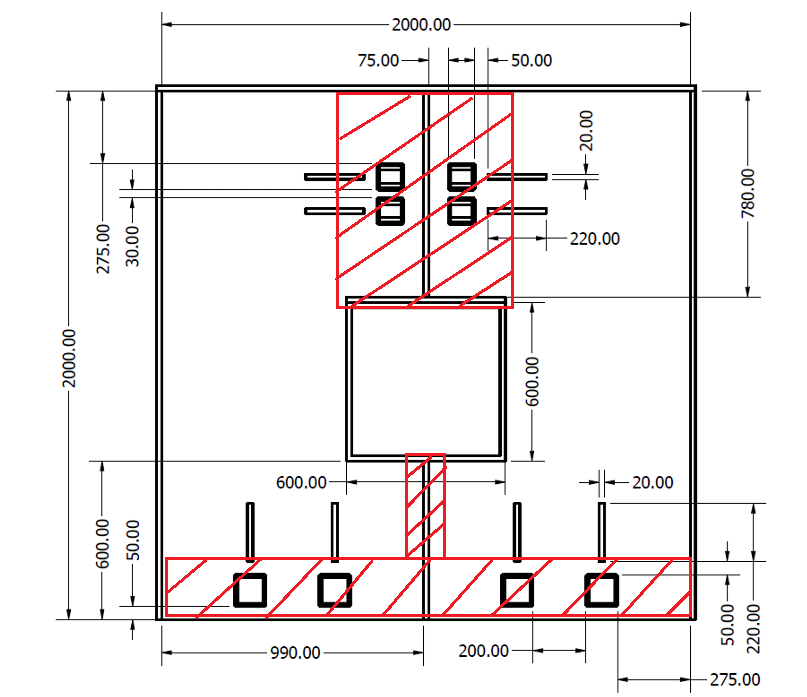
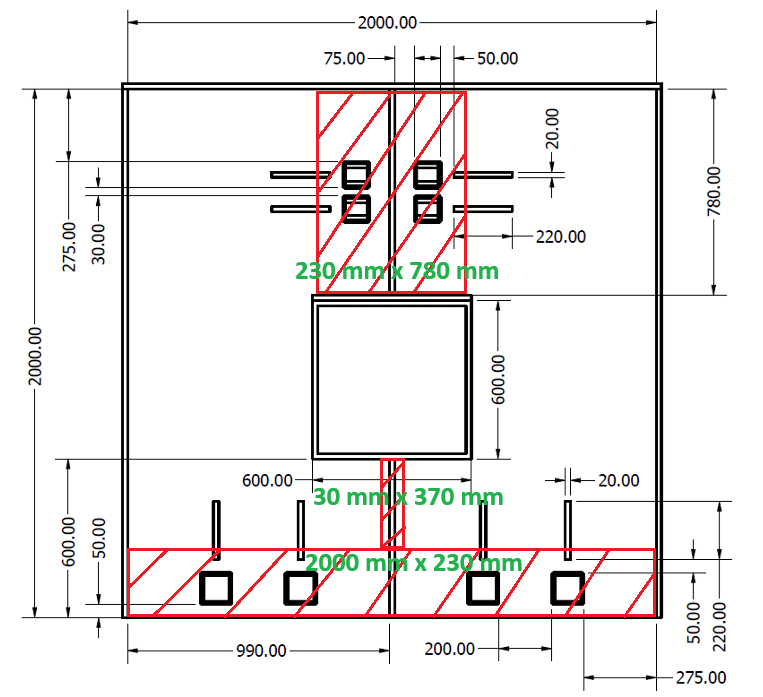
Add named arena poses and transfer routes

diff --git a/8 - 3-wheeled omni/src/main/cpp/RobotSubsystem.cpp b/8 - 3-wheeled omni/src/main/cpp/RobotSubsystem.cpp
@@ -248,7 +248,7 @@ void RobotSubsystem::InitializeMotionDashboard() {
   auto& tab=frc::Shuffleboard::GetTab("Motion");
   tab.AddString("Motion status",[this] {
     // Visible revision distinguishes this executable from stale robot/UI data.
-    const std::string revision="P8-r28 MVP | ";
+    const std::string revision="P8-r31 MVP | ";
     if (!routineNotice_.empty()) return revision+routineNotice_;
     if (frc::RobotState::IsAutonomous()) return revision+(navigationSelected_?navigation_.Status():tapeRoutine_.GetStatus());
     return revision+(hardware_.HasDriveFault()?
@@ -336,11 +336,11 @@ void RobotSubsystem::InitializePoseDashboard() {
   tab.AddString("Initialization status",[this] {
     return routineNotice_.empty()?navigation_.InitializationStatus():routineNotice_;
   }).WithPosition(0,0).WithSize(8,1);
-  initialX_=tab.Add("Start X mm or -",wpi::Twine("-"))
+  initialX_=tab.Add("Start X mm or -",wpi::Twine(std::to_string(localization_config::START_X_MM)))
       .WithWidget(frc::BuiltInWidgets::kTextView).WithPosition(0,1).WithSize(2,1).GetEntry();
-  initialY_=tab.Add("Start Y mm or -",wpi::Twine("-"))
+  initialY_=tab.Add("Start Y mm or -",wpi::Twine(std::to_string(localization_config::START_Y_MM)))
       .WithWidget(frc::BuiltInWidgets::kTextView).WithPosition(2,1).WithSize(2,1).GetEntry();
-  initialHeading_=tab.Add("Start heading deg",0.0).WithPosition(4,1).WithSize(2,1).GetEntry();
+  initialHeading_=tab.Add("Start heading deg",localization_config::START_HEADING_DEG).WithPosition(4,1).WithSize(2,1).GetEntry();
   initializeFromTab_=tab.Add("Initialize pose",false).WithWidget(frc::BuiltInWidgets::kToggleButton)
       .WithPosition(6,1).WithSize(2,1).GetEntry();
   const PoseInitialization defaults;
@@ -364,7 +364,12 @@ void RobotSubsystem::InitializePoseDashboard() {
 void RobotSubsystem::InitializeNavigationDashboard() {
   auto& tab=frc::Shuffleboard::GetTab("Navigation");
   tab.AddString("Navigation status",[this] {
-    return std::string("P8-r28 MVP | ")+(routineNotice_.empty()?navigation_.Status():routineNotice_);
+    std::string status=std::string("P8-r31 MVP | ")+(routineNotice_.empty()?navigation_.Status():routineNotice_);
+    if (navigation_.HasReference()) {
+      status+=" | from ";
+      status+=selectedSource_<navigation_config::GOAL_COUNT?navigation_config::GOALS[selectedSource_].name:"Current pose";
+    }
+    return status;
   }).WithPosition(0,0).WithSize(6,1);
   stopNavigation_=tab.Add("Stop",false).WithWidget(frc::BuiltInWidgets::kToggleButton)
       .WithPosition(6,0).WithSize(2,1).GetEntry();
@@ -389,12 +394,17 @@ void RobotSubsystem::InitializeNavigationDashboard() {
       .WithPosition(6,3).WithSize(2,1);
   for (const auto& preset:navigation_config::GOALS) {
     const int index=static_cast<int>(goalSettings_.size());
-    goalSettings_.push_back({preset.xMM,preset.yMM,preset.headingDeg,preset.intermediatePoses});
+    goalSettings_.push_back({preset.xMM,preset.yMM,preset.headingDeg});
     if (index==0) goalChooser_.SetDefaultOption(preset.name,index);
     else goalChooser_.AddOption(preset.name,index);
   }
   goalChooser_.AddOption("Custom",static_cast<int>(goalSettings_.size()));
-  goalSettings_.push_back({navigation_config::DEFAULT_GOAL_X_MM,navigation_config::DEFAULT_GOAL_Y_MM,0,""});
+  goalSettings_.push_back({navigation_config::DEFAULT_GOAL_X_MM,navigation_config::DEFAULT_GOAL_Y_MM,navigation_config::DEFAULT_GOAL_HEADING_DEG});
+  const int count=static_cast<int>(goalSettings_.size());
+  routeSettings_.assign(count*count,""); // extra row/column: Current pose / Custom
+  for (int source=0;source<navigation_config::GOAL_COUNT;++source)
+    for (int goal=0;goal<navigation_config::GOAL_COUNT;++goal)
+      routeSettings_[source*count+goal]=GoalNavigationRoutine::DefaultIntermediates(source,goal);
   tab.Add("Saved goal",goalChooser_).WithWidget(frc::BuiltInWidgets::kComboBoxChooser)
       .WithPosition(0,4).WithSize(2,1);
   intermediatePoses_=tab.Add("Intermediate poses (x,y,deg; ...)",wpi::Twine(""))
@@ -405,14 +415,35 @@ void RobotSubsystem::InitializeNavigationDashboard() {
 
 void RobotSubsystem::UpdateGoalSelection() {
   if (goalSettings_.empty()) return;
-  const int selected=goalChooser_.GetSelected();
-  if (selected<0 || selected>=static_cast<int>(goalSettings_.size()) || selected==selectedGoal_) return;
+  const int count=static_cast<int>(goalSettings_.size());
+  // Save the displayed destination and source-specific guides before switching.
+  // Editing the dashboard does not modify a route already captured by StartGoal.
   if (selectedGoal_>=0) {
     auto& old=goalSettings_[selectedGoal_];
-    old={goalX_.GetDouble(old.xMM),goalY_.GetDouble(old.yMM),goalHeading_.GetDouble(old.headingDeg),
-        intermediatePoses_.GetString(old.intermediatePoses)};
+    old={goalX_.GetDouble(old.xMM),goalY_.GetDouble(old.yMM),goalHeading_.GetDouble(old.headingDeg)};
+    auto& route=routeSettings_[selectedSource_*count+selectedGoal_];
+    route=intermediatePoses_.GetString(route);
   }
+  const int selected=goalChooser_.GetSelected();
+  if (selected<0 || selected>=count) return;
+  int source=selectedSource_;
+  // Freeze the source during travel. After arrival, use the current measured
+  // pose to select the next transfer, including a return to Start.
+  if (!navigation_.IsRunning()) {
+    source=navigation_config::GOAL_COUNT;
+    if (navigation_.HasReference()) {
+      const auto pose=navigation_.GetState()==GoalNavigationRoutine::State::Complete?
+          navigation_.ControlPose():localization_.GetPose();
+      double nearest=navigation_config::SOURCE_MATCH_RADIUS_MM;
+      for (int i=0;i<navigation_config::GOAL_COUNT;++i) {
+        const double distance=std::hypot(pose.x_MM-goalSettings_[i].xMM,pose.y_MM-goalSettings_[i].yMM);
+        if (distance<=nearest) { nearest=distance; source=i; }
+      }
+    }
+  }
+  if (selected==selectedGoal_ && source==selectedSource_) return;
   const auto& next=goalSettings_[selected];
   goalX_.SetDouble(next.xMM); goalY_.SetDouble(next.yMM); goalHeading_.SetDouble(next.headingDeg);
-  intermediatePoses_.SetString(next.intermediatePoses); selectedGoal_=selected;
+  intermediatePoses_.SetString(routeSettings_[source*count+selected]);
+  selectedGoal_=selected; selectedSource_=source;
 }

diff --git a/8 - 3-wheeled omni/src/main/include/RobotConfig.h b/8 - 3-wheeled omni/src/main/include/RobotConfig.h
@@ -58,7 +58,7 @@ static constexpr double CONTROL_PERIOD_S=0.020,MAX_CONTROL_GAP_S=0.10;
 // Controller ramps use a capped step; Teleop keeps its original timing limits.
 static constexpr double AUTO_MAX_SAMPLE_GAP_S=0.50,AUTO_MAX_CONTROL_STEP_S=0.04;
 static constexpr double ARENA_WIDTH_MM=2000,ARENA_HEIGHT_MM=2000;
-static constexpr double START_X_MM=950,START_Y_MM=900,START_HEADING_DEG=0;
+static constexpr double START_X_MM=950,START_Y_MM=900,START_HEADING_DEG=-90;
 
 static constexpr double FRONT_SENSOR_OFFSET_MM=171.6,REAR_SENSOR_OFFSET_MM=173;
 static constexpr double LEFT_SENSOR_OFFSET_MM=60,RIGHT_SENSOR_OFFSET_MM=60;
@@ -130,6 +130,26 @@ static constexpr double YAW_DIRECTION_CHECK_MIN_RADPS=YAW_DIRECTION_CHECK_MIN_DP
 static constexpr double YAW_RESPONSE_SETTLE_S=0.30;
 }
 
+// Layout from docs/court_barriers.png. Written dimensions take precedence over
+// the drawing's scale. Divider centreline is X=1000, independently of Start X.
+// These describe the scene, not a route-blocking/footprint feasibility layer.
+namespace arena_config {
+static constexpr double DIVIDER_X_MM=1000;
+struct RestrictedRegion { double minX,minY,maxX,maxY; };
+static constexpr RestrictedRegion RESTRICTED_REGIONS[]={
+    {DIVIDER_X_MM-115,1220,DIVIDER_X_MM+115,2000}, // upper: 230 x 780
+    {0,0,2000,230},                            // bottom: 2000 x 230
+    {DIVIDER_X_MM-15,230,DIVIDER_X_MM+15,600}}; // lower strip: 30 x 370
+// The horizontal wooden wall is separate from the upper restricted rectangle;
+// the centre square itself is floor tape. Wall faces are inferred from the
+// 600 mm span and 780 mm north-wall offset, approximately confirmed by the user.
+// Keep the faces editable for refinement of the physical measurements.
+static constexpr bool HORIZONTAL_WALL_REFERENCE_ENABLED=true;
+static constexpr double HORIZONTAL_WALL_MIN_X_MM=DIVIDER_X_MM-300;
+static constexpr double HORIZONTAL_WALL_MAX_X_MM=DIVIDER_X_MM+300;
+static constexpr double HORIZONTAL_WALL_SOUTH_Y_MM=1200,HORIZONTAL_WALL_NORTH_Y_MM=1220;
+}
+
 // Minimum version: manually supplied intermediate poses and one final pose.
 namespace navigation_config {
 // FINAL POSE
@@ -156,14 +176,38 @@ static constexpr unsigned MAX_INTERMEDIATE_POINTS=32;
 static constexpr double WALL_MAX_INNOVATION_MM=100,WALL_BLEND=0.25,WALL_MAX_STEP_MM=5;
 static constexpr double WALL_HISTORY_S=0.5;
 static constexpr double BRAKE_PREVIEW_S=0.25;
-// Each goal owns an ordered "x,y,headingDeg; ..." list. Empty means direct travel.
-// These short north-lane examples demonstrate zero, one and multiple points.
-struct GoalPreset { const char* name; double xMM,yMM,headingDeg; const char* intermediatePoses; };
-static constexpr GoalPreset GOALS[]={
-    {"Short north",250,700,0,""},
-    {"North via 700",250,950,0,"250,700,0"},
-    {"Long north",250,1200,0,"250,700,0;250,950,0"},
-    {"Top right",1700,1700,90,"650,850,0;1500,850,90;1700,1400,90"}};
+// Named poses and shared pass-through guides.
+enum GoalId { STORAGE_RIGHT,STORAGE_LEFT,DELIVERY_RIGHT,DELIVERY_LEFT,START,GOAL_COUNT };
+static constexpr double SOURCE_MATCH_RADIUS_MM=75;
+struct GoalPreset { const char* name; double xMM,yMM,headingDeg; };
+static constexpr GoalPreset GOALS[GOAL_COUNT]={
+    {"Storage right",1700,1700,90}, {"Storage left",300,1700,-90},
+    {"Delivery right",1700,400,90}, {"Delivery left",300,400,-0},
+    {"Start",localization_config::START_X_MM,localization_config::START_Y_MM,localization_config::START_HEADING_DEG}};
+enum GuideId { NO_GUIDE=-1,LEFT_GUIDE,RIGHT_GUIDE };
+static constexpr GoalPreset INTERMEDIATES[2]={
+    {"Intermediate left",500,900,-90}, {"Intermediate right",1500,900,-90}};
+// Row = source, column = destination, in GOALS order above. NO_GUIDE means
+// direct. Same-side storage/delivery transfers are direct; crossing sides uses
+// source-side then destination-side guides; Start uses the other pose's side.
+// Translation and rotation overlap; guides do not introduce mandatory stops.
+struct RoutePreset { int guide[2]; };
+static constexpr RoutePreset ROUTES[GOAL_COUNT][GOAL_COUNT]={
+  { // from Storage right -> Storage right, Storage left, Delivery right, Delivery left, Start
+    {{NO_GUIDE,NO_GUIDE}}, {{RIGHT_GUIDE,LEFT_GUIDE}}, {{NO_GUIDE,NO_GUIDE}},
+    {{RIGHT_GUIDE,LEFT_GUIDE}}, {{RIGHT_GUIDE,NO_GUIDE}}},
+  { // from Storage left
+    {{LEFT_GUIDE,RIGHT_GUIDE}}, {{NO_GUIDE,NO_GUIDE}}, {{LEFT_GUIDE,RIGHT_GUIDE}},
+    {{NO_GUIDE,NO_GUIDE}}, {{LEFT_GUIDE,NO_GUIDE}}},
+  { // from Delivery right
+    {{NO_GUIDE,NO_GUIDE}}, {{RIGHT_GUIDE,LEFT_GUIDE}}, {{NO_GUIDE,NO_GUIDE}},
+    {{RIGHT_GUIDE,LEFT_GUIDE}}, {{RIGHT_GUIDE,NO_GUIDE}}},
+  { // from Delivery left
+    {{LEFT_GUIDE,RIGHT_GUIDE}}, {{NO_GUIDE,NO_GUIDE}}, {{LEFT_GUIDE,RIGHT_GUIDE}},
+    {{NO_GUIDE,NO_GUIDE}}, {{LEFT_GUIDE,NO_GUIDE}}},
+  { // from Start
+    {{RIGHT_GUIDE,NO_GUIDE}}, {{LEFT_GUIDE,NO_GUIDE}}, {{RIGHT_GUIDE,NO_GUIDE}},
+    {{LEFT_GUIDE,NO_GUIDE}}, {{NO_GUIDE,NO_GUIDE}}}};
 static constexpr double DEFAULT_GOAL_X_MM=GOALS[0].xMM,DEFAULT_GOAL_Y_MM=GOALS[0].yMM,DEFAULT_GOAL_HEADING_DEG=GOALS[0].headingDeg;
 }
 // Shared final XY controller for Navigation and the tape approach.

diff --git a/8 - 3-wheeled omni/src/main/cpp/Navigation.cpp b/8 - 3-wheeled omni/src/main/cpp/Navigation.cpp
@@ -67,6 +67,18 @@ bool ReadIntermediatePoses(const std::string& text,double heading,std::vector<Ro
 }
 }
 void GoalNavigationRoutine::Enter() { *this=GoalNavigationRoutine{}; }
+std::string GoalNavigationRoutine::DefaultIntermediates(int source,int destination) {
+  if (source<0 || source>=navigation_config::GOAL_COUNT || destination<0 || destination>=navigation_config::GOAL_COUNT) return {};
+  std::ostringstream poses;
+  bool first=true;
+  for (const int guide:navigation_config::ROUTES[source][destination].guide) {
+    if (guide==navigation_config::NO_GUIDE) continue;
+    const auto& pose=navigation_config::INTERMEDIATES[guide];
+    if (!first) poses<<';';
+    poses<<pose.xMM<<','<<pose.yMM<<','<<pose.headingDeg; first=false;
+  }
+  return poses.str();
+}
 void GoalNavigationRoutine::Abort() { Stop(); state_=State::Aborted; status_="Stopped"; }
 void GoalNavigationRoutine::Fail(const std::string& message) { Stop(); state_=State::Fault; status_=message; }
 bool GoalNavigationRoutine::InitializePose(const PoseInitialization& settings) {
@@ -115,19 +127,24 @@ bool GoalNavigationRoutine::StartGoal(RobotPose goal,const NavigationInput& in,c
         std::to_string(navigation_config::MAX_INTERMEDIATE_POINTS)+" points)"; return false;
   }
   goal.headingRad=robot_geometry::Wrap(goal.headingRad);
+  // Consecutive goals retain a valid driving offset if that axis could not
+  // receive a stationary global update at the preceding goal.
+  const bool continuing=state_==State::Complete;
+  if (!continuing) for (auto& offset:rangeOffset_) offset=0;
+  const RobotPose start={in.motion.pose.x_MM+rangeOffset_[0],in.motion.pose.y_MM+rangeOffset_[1],in.motion.pose.headingRad};
   route.push_back(goal); route_=std::move(route); leg_=0; worldVX_=worldVY_=0;
-  legStart_={in.motion.pose.x_MM,in.motion.pose.y_MM}; carryHeading_=transitHeadingActive_=false;
+  legStart_={start.x_MM,start.y_MM}; carryHeading_=transitHeadingActive_=false;
   transitHeadingTarget_=in.motion.pose.headingRad;
   finalControllerReady_=route_.size()==1;
   goal_=goal; goal_.headingRad=robot_geometry::Wrap(goal_.headingRad);
   settled_=-1; travelHeading_=in.motion.pose.headingRad;
-  remaining_=0; auto previous=in.motion.pose;
+  remaining_=0; auto previous=start;
   for (auto p:route_) { remaining_+=std::hypot(p.x_MM-previous.x_MM,p.y_MM-previous.y_MM); previous=p; }
   point_.Reset({goal_.x_MM,goal_.y_MM},in.motion.now,navigation_config::SPEED_MMPS,navigation_config::ACCEL_MMPS2);
   heading_.Reset(); Stop(); state_=State::Driving;
   history_.clear(); positionCorrection_={0,0};
-  controlPose_=in.motion.pose;
-  for (int axis=0;axis<2;++axis) { rangeOffset_[axis]=rangeTarget_[axis]=0; rangeStamp_[axis]=-1; rangeSources_[axis]=0; }
+  controlPose_=start;
+  for (int axis=0;axis<2;++axis) { rangeTarget_[axis]=0; rangeStamp_[axis]=-1; rangeSources_[axis]=0; }
   for (auto& stamp:consumedStamp_) stamp=-1;
   for (auto& time:wallTime_) time=-1;
   status_=route_.size()==1?"Direct XY travel; holding starting heading":"Manual pose route started";
@@ -260,6 +277,17 @@ void GoalNavigationRoutine::CorrectFromWalls(NavigationInput& in) {
     for (const auto& wall:walls_) consider(wall.axis,wall.coordinate);
     consider(0,0); consider(0,localization_config::ARENA_WIDTH_MM);
     consider(1,0); consider(1,localization_config::ARENA_HEIGHT_MM);
+    if (arena_config::HORIZONTAL_WALL_REFERENCE_ENABLED) {
+      // A finite wall, not an infinite Y plane: a beam alongside its ends
+      // must still reference the outer wall, with mount/heading at acquisition.
+      for (const double face:{arena_config::HORIZONTAL_WALL_SOUTH_Y_MM,arena_config::HORIZONTAL_WALL_NORTH_Y_MM}) {
+        if (std::fabs(ray.direction[1])<=1e-6) continue;
+        const double distance=(face-ray.origin[1])/ray.direction[1];
+        const double hitX=ray.origin[0]+distance*ray.direction[0];
+        if (hitX>=arena_config::HORIZONTAL_WALL_MIN_X_MM && hitX<=arena_config::HORIZONTAL_WALL_MAX_X_MM)
+          consider(1,face);
+      }
+    }
     if (axis<0 || std::fabs(predicted-in.rangeMM[sensor])>navigation_config::WALL_MAX_INNOVATION_MM) continue;
     const double weight=ray.direction[axis]*ray.direction[axis];
     sums[axis]+=weight*(predicted-in.rangeMM[sensor])*ray.direction[axis]; weights[axis]+=weight;

diff --git a/8 - 3-wheeled omni/src/test/cpp/ArenaRoutineChecks.cpp b/8 - 3-wheeled omni/src/test/cpp/ArenaRoutineChecks.cpp
@@ -786,10 +786,16 @@ void MvpManualRouteInput() {
   nav.Abort();
   REQUIRE_ARENA(nav.StartGoal({250,950,0},in,"250,450;250,700"));
   nav.Update(in); REQUIRE_ARENA(nav.LegIndex()==1); // a point at the start is skipped without stopping
-  for (const auto& preset:navigation_config::GOALS) {
-    nav.Abort();
-    REQUIRE_ARENA(nav.StartGoal({preset.xMM,preset.yMM,robot_geometry::Radians(preset.headingDeg)},in,preset.intermediatePoses));
-  }
+  for (int source=0;source<navigation_config::GOAL_COUNT;++source)
+    for (int destination=0;destination<navigation_config::GOAL_COUNT;++destination) {
+      if (source==destination) continue;
+      nav.Abort();
+      const auto& start=navigation_config::GOALS[source];
+      const auto& goal=navigation_config::GOALS[destination];
+      in.motion.pose={start.xMM,start.yMM,robot_geometry::Radians(start.headingDeg)};
+      REQUIRE_ARENA(nav.StartGoal({goal.xMM,goal.yMM,robot_geometry::Radians(goal.headingDeg)},in,
+          GoalNavigationRoutine::DefaultIntermediates(source,destination)));
+    }
 }
 void YawDirectionCheckAllowsDelayedReversalButRejectsSustainedOpposition() {
   HeadingMotionControl feedback;

diff --git a/8 - 3-wheeled omni/src/main/include/RobotControl.h b/8 - 3-wheeled omni/src/main/include/RobotControl.h
@@ -146,9 +146,11 @@ class RobotSubsystem : public frc2::SubsystemBase {
   nt::NetworkTableEntry initializePose_,initializeFromTab_,goToGoal_,stopNavigation_,goalX_,goalY_,goalHeading_;
   nt::NetworkTableEntry intermediatePoses_,initialX_,initialY_,initialHeading_,wallReferences_[4];
   frc::SendableChooser<int> goalChooser_;
-  struct GoalSettings { double xMM,yMM,headingDeg; std::string intermediatePoses; };
+  struct GoalSettings { double xMM,yMM,headingDeg; };
   std::vector<GoalSettings> goalSettings_;
+  std::vector<std::string> routeSettings_;
   int selectedGoal_=-1;
+  int selectedSource_=navigation_config::GOAL_COUNT; // GOAL_COUNT = unnamed current pose
   nt::NetworkTableEntry startTapeLeft_,startTapeRight_,stopTape_;
   bool autonomousSession_=false;
   std::string routineNotice_;

diff --git a/8 - 3-wheeled omni/src/main/include/Autonomous.h b/8 - 3-wheeled omni/src/main/include/Autonomous.h
@@ -71,6 +71,7 @@ class GoalNavigationRoutine {
   void Enter();
   bool InitializePose(const PoseInitialization& settings);
   bool StartGoal(RobotPose goal,const NavigationInput& in,const std::string& intermediatePoses="");
+  static std::string DefaultIntermediates(int source,int destination);
   void Update(const NavigationInput& in);
   void Abort();
   void Fail(const std::string& message);

diff --git a/8 - 3-wheeled omni/README.md b/8 - 3-wheeled omni/README.md
@@ -50,14 +50,14 @@ Sonars use FlexDIO 2/3 front and 0/1 rear (even trigger, odd echo). IR sensors u
 
 Basic teleoperated driving and on-demand photo capture are retained. The inactive project-7 arena mission/planner, simple tasks, colour classification/calibration, Cobra recapture/file persistence, lift, and servo code are removed. Build and vendor configuration remain unchanged.
 
-## Sensor-supported navigation (P8-r28 MVP)
+## Sensor-supported navigation (P8-r31 MVP)
 
 Navigation follows your editable intermediate poses and final goal. Encoder counts and reset-relative gyro heading remain the basic motion estimate. Valid range readings provide a small position offset to guide driving; they do not veto a route or generate recovery faults. The obstacle map, grid searches, automatic detours, staging/recovery controller and planning worker have been deleted.
 
 ### Initialize
 
 1. Select and enable Autonomous in Control Station. This alone does not start driving.
-2. On **Initialization**, enter the known start X/Y in millimeters. Use `-` for either unknown coordinate, and enter the starting heading explicitly.
+2. On **Initialization**, enter the known start X/Y in millimeters. The fields default to the named **Start** pose `(950,900,-90)`; use these only when physically placed there. Use `-` for either unknown coordinate, and enter the starting heading explicitly.
 3. In each sensor's wall field, use `X=coordinate` for a vertical wall, `Y=coordinate` for a horizontal wall, or `-` to exclude that sensor from initialization. These are global wall coordinates, not measured gaps.
 4. Press **Initialize pose**. Supplied coordinates stay as entered; valid selected readings determine the unspecified axes. If an axis cannot be determined, supply it or correct the reference selection. There is no stationary gate or reference timeout.
 
@@ -67,7 +67,30 @@ The usual north-facing lower-left reference is X=`-`, Y=`-`, heading=`0`, left I
 
 On **Navigation**, choose **Saved goal** or **Custom**, edit final X/Y/heading and enter zero or more **Intermediate poses** as `x,y,heading; x,y,heading`. Empty means a direct leg. Old `x,y` entries inherit the preceding heading. Up to 32 intermediate poses are supported. All distances are millimeters; headings are degrees.
 
-Heading zero is north (+Y); +90 is west, -90 east and +/-180 south. The **Top right** preset remains `(1700,1700,90)` with guides `650,850,0;1500,850,90;1700,1400,90`. Each saved goal keeps its own edits while switching selections until restart; durable defaults are in `navigation_config::GOALS` in `RobotConfig.h`.
+Heading zero is north (+Y); +90 is west, -90 east and +/-180 south. There are five named poses:
+
+| Saved goal | X (mm) | Y (mm) | Heading (deg) |
+| --- | --- | --- | --- |
+| Storage right (formerly Top right) | 1700 | 1700 | 90 |
+| Storage left | 300 | 1700 | -90 |
+| Delivery right | 1700 | 400 | 90 |
+| Delivery left | 300 | 400 | 0 |
+| Start | 950 | 900 | -90 |
+
+Initialize once at the actual starting pose. After **Goal reached**, choose any of the other four named goals and press **Go to goal** again. Returning to **Start** is ordinary navigation: selecting it does not reset odometry or gyro. Consecutive moves retain the sensor-assisted driving offset on any axis that could not receive a stationary global update at the preceding arrival.
+
+Two shared intermediate poses are defined once in `navigation_config::INTERMEDIATES` in `RobotConfig.h`: **Intermediate left `(500,900,-90)`** and **Intermediate right `(1500,900,-90)`**. `ROUTES` contains their IDs, rather than repeated coordinates; rows are sources and columns are destinations in the `GOALS` order above.
+
+- Storage and delivery on the same side connect directly, in either direction.
+- Transfers between sides use the source-side intermediate, then the destination-side intermediate.
+- Transfers between Start and another goal use that goal's side intermediate.
+- Selecting the current goal has no intermediates.
+
+For example, Storage left to Delivery right uses Intermediate left, Intermediate right, then Delivery right. Storage left to Delivery left is direct. Delivery right to Start uses Intermediate right, then Start. All intermediate headings are -90 degrees. These remain pass-through poses with relaxed tolerances and simultaneous rotation/translation, without mandatory in-place turns. The dashboard still permits editing, adding or removing intermediate poses per transfer. Physical clearance must be evaluated on the robot.
+
+When stopped, the dashboard identifies the nearest named pose within 75 mm and automatically loads that source-to-destination list; **Navigation status** shows `from <source>`. The source stays fixed during travel. If no named source matches, it shows **Current pose** and uses a separate, initially empty guide list. Review/edit that list before Go when starting elsewhere. Custom destinations also have separate guide lists.
+
+Final X/Y/heading edits belong to the selected destination. Intermediate-list edits belong to the current source–destination pair. Both survive switching selections until the program restarts; durable defaults are in `navigation_config::GOALS` and `ROUTES` in `RobotConfig.h`. Changing a selection or editing a field during travel does not change the active captured route.
 
 Press **Go to goal** to snapshot the selected route. Intermediates use a 25 mm passing radius/cross-track corridor and relaxed 10 degree heading guidance. A 100 mm lookahead, up to 25 mm corner blending and a continuous acceleration ramp smooth transitions. An explicitly requested in-place turn still rotates there. The final XY arrival is followed by the final heading and the normal **10 mm / 1 degree** stationary completion check.
 
@@ -95,6 +118,10 @@ The shared final XY controller now reads `position_control_config`, so its tunin
 ### Sensor geometry and driving feedback
 
 This first version uses the four known outer arena walls plus the additional reference planes entered at initialization. It is sensor-assisted localization against known coordinates; it does not learn unknown obstacles as a SLAM system.
+
+The updated drawing's written restricted-region dimensions are recorded in `arena_config`: upper 230 x 780 mm, bottom band 2000 x 230 mm, and lower central strip 30 x 370 mm. The divider centreline is X=1000 mm; the lower strip spans X=985..1015 mm. Start remains at X=950 mm, independently of that centreline, accounting for the manipulator. These are scene descriptions, not new route vetoes or obstacles inferred from floor tape.
+
+The horizontal wooden wall below the upper region is separate from that restricted region. Its finite reference uses X=700..1300 mm (600 mm centred on X=1000), with faces Y=1200/1220 mm. These remain editable estimates based on the drawing and the user's approximate confirmation. `HORIZONTAL_WALL_REFERENCE_ENABLED` is now **true**. Only beams that intersect its actual span can reference it; beams passing its ends can still reference outer walls. The usual valid/fresh-reading and discrepancy checks apply, including sensor mount offsets and acquisition-time heading. This adds no sensor-required stop or clearance failure.
 
 Sensor mounts in the body frame (+X forward, +Y left) remain:
 
